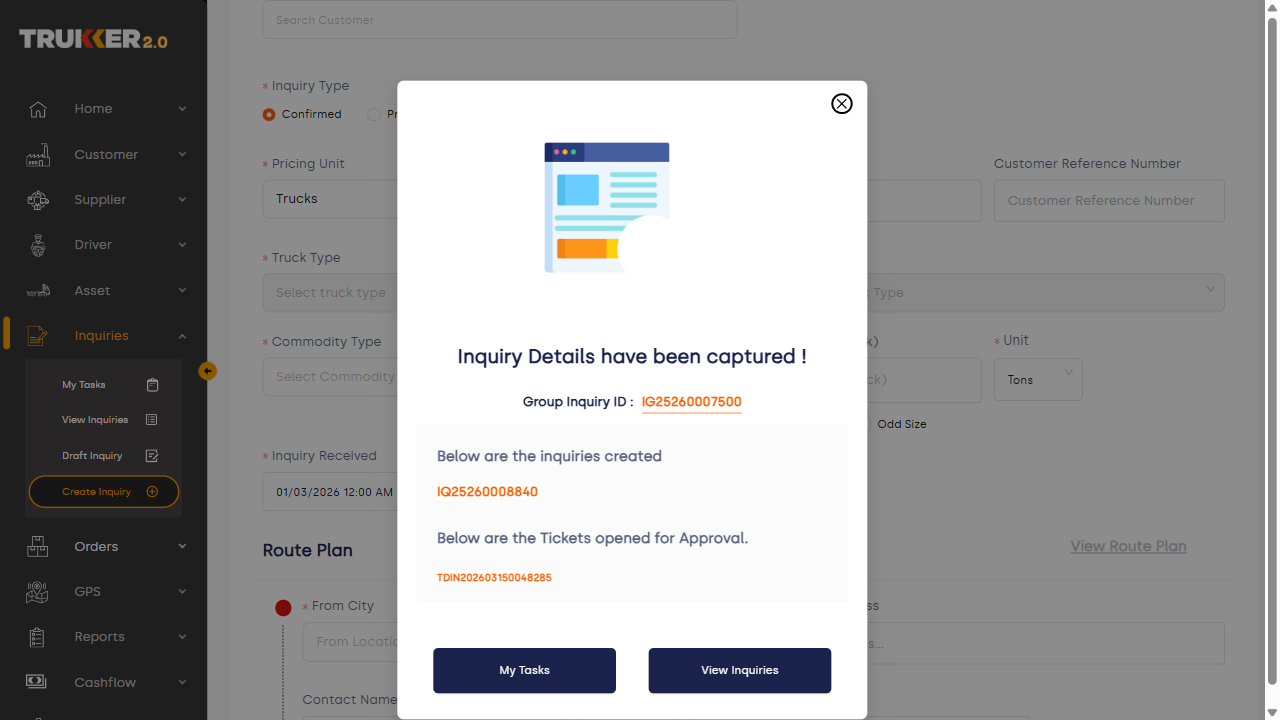
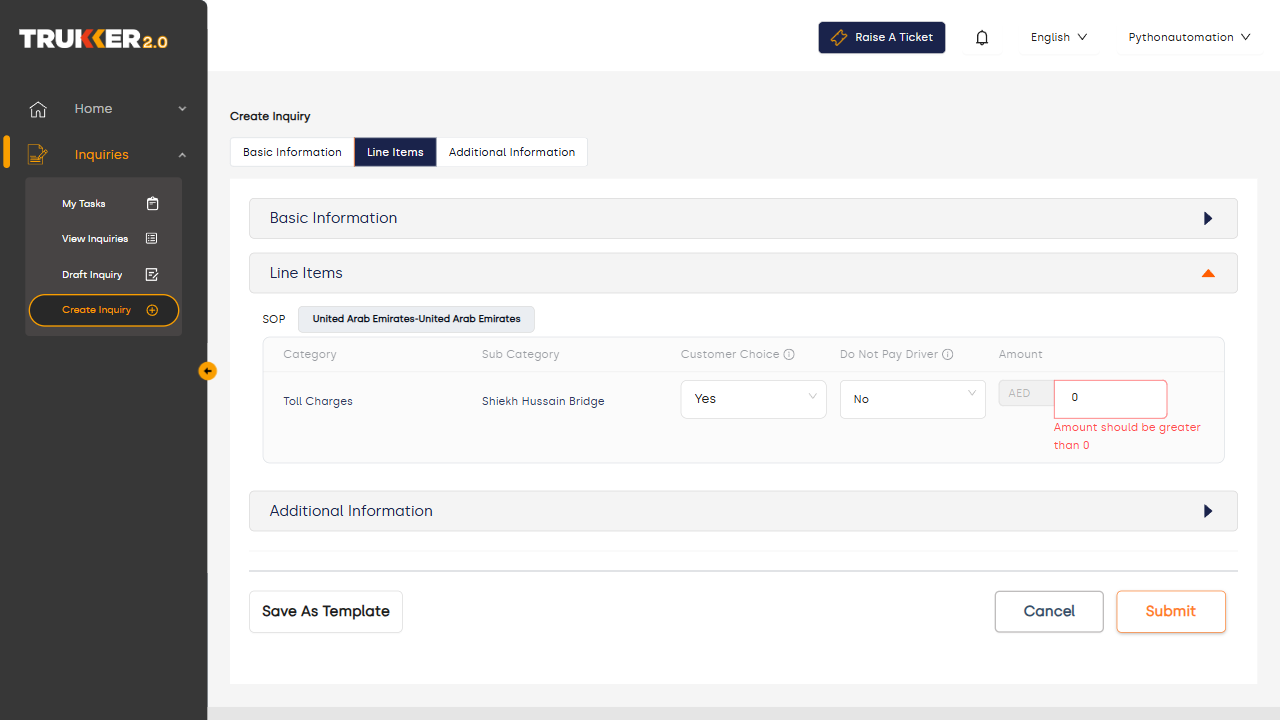
Add auth session

diff --git a/UICode/UiCode.html b/UICode/UiCode.html
@@ -1,0 +1,41 @@
+<!DOCTYPE html>
+<html>
+<head>
+<title>Automation Runner</title>
+</head>
+<body>
+
+<h2>Automation Test Runner</h2>
+
+<input type="text" id="testName" placeholder="Enter Test Name">
+
+<button onclick="runTest()">Run Test</button>
+
+<h3>Result</h3>
+<pre id="result"></pre>
+
+<script>
+
+const API_BASE_URL = "http://127.0.0.1:8000";
+
+async function runTest() {
+
+    const testName = document.getElementById("testName").value;
+
+    const response = await fetch(
+        `${API_BASE_URL}/automation/run-test/${testName}`,
+        {
+            method: "POST"
+        }
+    );
+
+    const data = await response.json();
+
+    document.getElementById("result").textContent =
+        JSON.stringify(data, null, 2);
+}
+
+</script>
+
+</body>
+</html>

diff --git a/Base/InitiateDriver.py b/Base/InitiateDriver.py
@@ -12,52 +12,33 @@ class InitiateDriver:
         e.g. "WebVideos", "OrderBooking", "WinnerDeclaration"
         """
         p = sync_playwright().start()
-        headless = os.getenv("RENDER", None) is not None
         browser = p.chromium.launch(
-            headless=headless,
-            args=["--no-sandbox","--start-maximized", "--disable-dev-shm-usage"],
+            headless=False,
+            args=["--start-maximized", "--disable-dev-shm-usage"],
             slow_mo=1000
         )
 
-        context = browser.new_context(storage_state="auth.json")
+        context = browser.new_context()
         page = context.new_page()
-        page.set_default_timeout(60000)
 
         # Login flow
         page.goto("https://onboarding.qa.trukker.com/",
                   timeout=120000)
-
-        # If login page appears → do login
-        if page.locator("//span[text()='Sign in with Google']").is_visible():
-            print("Session expired. Logging in again...")
-
-            page.click("//span[text()='Sign in with Google']")
-            page.fill("//input[@type='email']", "punem.kishor@trukker.com")
-            page.click("//span[text()='Next']")
-            page.fill("//input[@type='password']", "Kishor@12345")
-            page.click("//span[text()='Next']")
-            page.wait_for_load_state("networkidle")
-
-            # Save session again
-            context.storage_state(path="auth.json")
-
-        else:
-            print("Using existing session")
         # page.set_viewport_size({"width": 1920, "height": 1080})
-        # page.fill("//input[@name='username']", "test1@trukker.com")
-        # page.fill("//input[@name='password']", "trukker@123")
+        page.fill("//input[@name='username']", "Pythonautomation")
+        page.fill("//input[@name='password']", "Trukker@123")
         # page.click("//span[text()='Sign in with Google']")
-        # # time.sleep(5)
+        # time.sleep(5)
         # page.fill("//input[@type='email']","punem.kishor@trukker.com")
-        # # time.sleep(5)
+        # time.sleep(5)
         # page.click("//span[text()='Next']")
-        # # time.sleep(5)
+        # time.sleep(5)
         # page.fill("//input[@type='password']","Kishor@12345")
-        # # time.sleep(5)
+        # time.sleep(5)
         # page.click("//span[text()='Next']")
-        # # time.sleep(30)
-        # # page.click("//button[@type='submit']")
-        # page.wait_for_load_state("networkidle")
+        # time.sleep(30)
+        page.click("//button[@type='submit']")
+        page.wait_for_load_state("networkidle")
 
         print("Login successful")
         return p, browser, context, page

diff --git a/api/schemas/automation_schema.py b/api/schemas/automation_schema.py
@@ -7,7 +7,17 @@ def run_test(test_name):
 
     start_time = time.time()
 
+    # automatically add .py if user forgets
+    if not test_name.endswith(".py"):
+        test_name += ".py"
+
     test_path = os.path.join("TestCases", test_name)
+
+    # check file exists
+    if not os.path.exists(test_path):
+        return {
+            "error": f"Test file not found: {test_path}"
+        }
 
     process = subprocess.run(
         ["python", "-m", "pytest", test_path, "-s", "-v"],

diff --git a/api/routes/automation_routes.py b/api/routes/automation_routes.py
@@ -3,7 +3,7 @@ from api.schemas.automation_schema import run_test
 
 router = APIRouter(prefix="/automation", tags=["Automation"])
 
-@router.post("/run-test")
+@router.post("/run-test/CreateInquiryforGCC")
 def run_automation(test_name: str):
 
     result = run_test(test_name)
